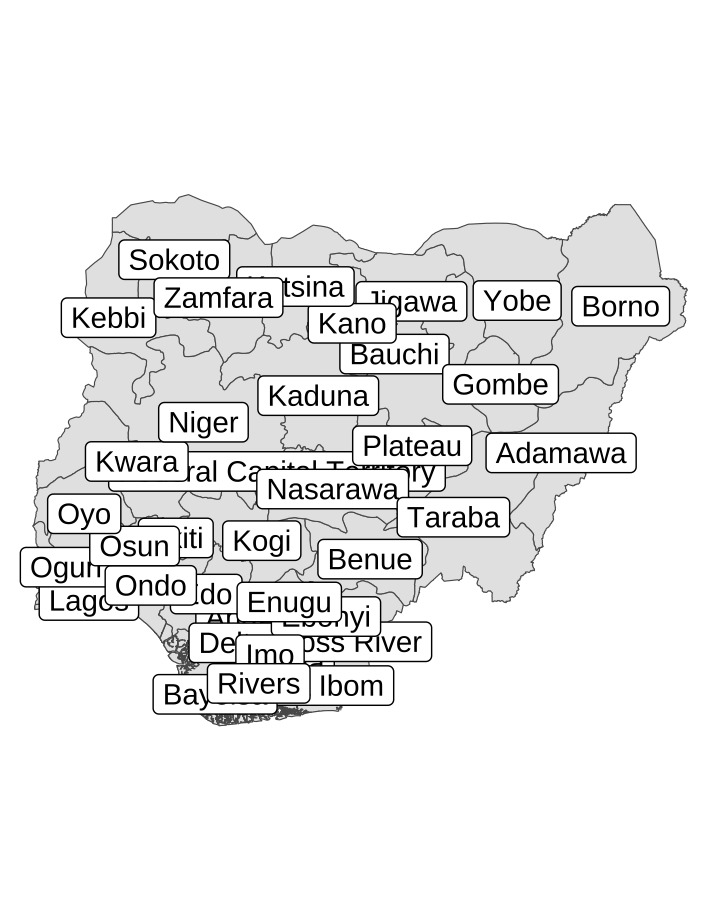
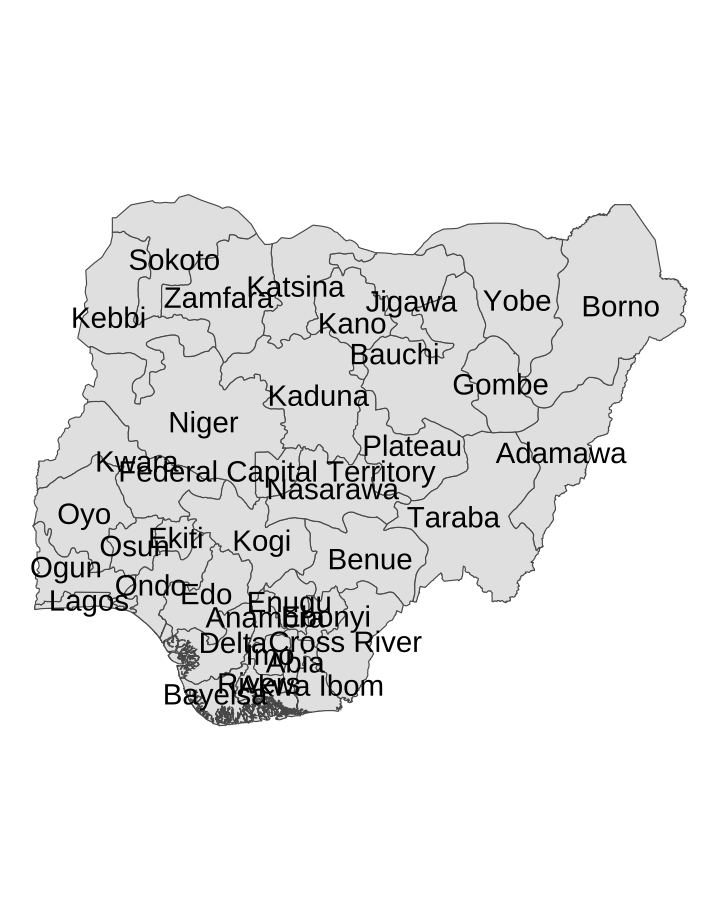
dashboard

Changed region(s): [[0.0306, 0.2432, 0.9472, 0.7904]]

diff --git a/docs/index.html b/docs/index.html
@@ -1875,10 +1875,11 @@ window.FlexDashboardComponents.push({
 
 <div id="dashboard-container">
 
-<div id="background" class="section level1" data-icon="fa-info-circle">
+<div id="background" class="section level1" data-orientation="rows"
+data-icon="fa-info-circle">
 <h1>Background</h1>
-<div id="sidebar" class="section level2 sidebar">
-<h2 class="sidebar">Sidebar</h2>
+<div id="about-data" class="section level2 sidebar">
+<h2 class="sidebar">About Data</h2>
 <p><strong>Background</strong></p>
 <p>The <code>afrobarometer_ngr</code> data is a publicly available data
 set from <a
@@ -1886,26 +1887,25 @@ href="https://www.afrobarometer.org/data/"><strong>Afrobarometer</strong></a>,
 an non-profit African survey organization based in Ghana. According to
 their website, they “conducts public attitude surveys on democracy,
 governance, the economy, and society.” The data set is part of their
-many data sets from African countries.</p>
-<p>Specifically, the <code>afrobarometer_ngr</code> data set is a 2022
-8th round comprehensive survey on several topics from perceptions of
-democracy, elections and the media to attitudes towards different
-institutions in Nigeria.</p>
+many data sets from African countries. Specifically, the
+<code>afrobarometer_ngr</code> data set is a 2022 8th round
+comprehensive survey on several topics from perceptions of democracy,
+elections and the media to attitudes towards different institutions in
+Nigeria.</p>
 </div>
-<div id="column" class="section level2" data-height="600">
-<h2>Column</h2>
+<div id="row-data-width400" class="section level2 tabset">
+<h2 class="tabset">Row {data-width=400}</h2>
 <div id="title" class="section level3 no-title">
 <h3 class="no-title">Title</h3>
-<div class="knitr-options" data-fig-width="288" data-fig-height="240">
+<div class="knitr-options" data-fig-width="624" data-fig-height="672">
 
 </div>
-<p><img src="final%20draft%20graphics/perception_image.jpg" width="288" data-figure-id=fig1 style="display: block; margin: auto 0 auto auto;" /></p>
+<p><img src="final%20draft%20graphics/perception_image.png" width="624" data-figure-id=fig1 style="display: block; margin: auto;" /></p>
 </div>
-</div>
-<div id="column-1" class="section level2" data-height="600">
-<h2>Column</h2>
-<div id="title-1" class="section level3 no-title">
-<h3 class="no-title">Title</h3>
+<div id="guides-to-reading-maps-37-states-of-nigeria"
+class="section level3 no-title">
+<h3 class="no-title"><strong>Guides to Reading Maps (37 States of
+Nigeria)</strong></h3>
 <strong>Guides to Maps (37 States of Nigeria)</strong>
 <div class="knitr-options" data-fig-width="576" data-fig-height="460">
 
@@ -1932,7 +1932,7 @@ evident, States in the North (Islamic Majority) are more trusting of the
 President and Religious Leaders compared to the states in the South
 (Christian Majority).</p>
 </div>
-<div id="column-2" class="section level2" data-width="400">
+<div id="column" class="section level2" data-width="400">
 <h2>Column</h2>
 <div id="nigerian-trust-religious-and-traditional-leaders-more"
 class="section level3">
@@ -1943,7 +1943,7 @@ class="section level3">
 <p><img src="index_files/figure-html/unnamed-chunk-4-1.png" width="576" data-figure-id=fig2 /></p>
 </div>
 </div>
-<div id="column-3" class="section level2" data-width="200">
+<div id="column-1" class="section level2" data-width="200">
 <h2>Column</h2>
 <div class="knitr-options" data-fig-width="576" data-fig-height="460">
 
@@ -1976,7 +1976,7 @@ in providing basic Health services and their handling of education. The
 lowest assessments were on electricity and job creation. Overall, on a
 scale of “1 to 5”, the ratings were quite low.</p>
 </div>
-<div id="column-4" class="section level2" data-width="400">
+<div id="column-2" class="section level2" data-width="400">
 <h2>Column</h2>
 <div
 id="average-ratings-of-how-well-the-federal-govt-is-handling-the-following"
@@ -1986,8 +1986,8 @@ Following</strong></h3>
 <div class="knitr-options" data-fig-width="576" data-fig-height="460">
 
 </div>
-<div class="plotly html-widget html-fill-item-overflow-hidden html-fill-item" id="htmlwidget-19e86ef79b84cf7f3ac5" style="width:576px;height:460.8px;"></div>
-<script type="application/json" data-for="htmlwidget-19e86ef79b84cf7f3ac5">{"x":{"visdat":{"15c04449145f":["function () ","plotlyVisDat"]},"cur_data":"15c04449145f","attrs":{"15c04449145f":{"x":{},"y":{},"marker":{"color":["#D53130","#00929C","#FFB6C2","#184C52","#3086E5","#846B54","#6D6F80","#E4CA15","#523316"]},"alpha_stroke":1,"sizes":[10,100],"spans":[1,20],"type":"bar"}},"layout":{"margin":{"b":40,"l":60,"t":25,"r":10},"xaxis":{"domain":[0,1],"automargin":true,"categoryorder":"total descending","title":"Issues","type":"category","categoryarray":["Addressing Armed Extremism","Basic Health Services","Crime Reduction","Economy","Education","Electricity","Fighting Corruption","Job Creation","Living Conditions"]},"yaxis":{"domain":[0,1],"automargin":true,"range":[1,5],"title":"Average_Score"},"hovermode":"closest","showlegend":false},"source":"A","config":{"modeBarButtonsToAdd":["hoverclosest","hovercompare"],"showSendToCloud":false},"data":[{"x":["Basic Health Services","Education","Addressing Armed Extremism","Crime Reduction","Economy","Fighting Corruption","Living Conditions","Electricity","Job Creation"],"y":[2.12,2.11,2.06,2.01,1.97,1.95,1.87,1.85,1.74],"marker":{"color":["#D53130","#00929C","#FFB6C2","#184C52","#3086E5","#846B54","#6D6F80","#E4CA15","#523316"],"line":{"color":"rgba(31,119,180,1)"}},"type":"bar","error_y":{"color":"rgba(31,119,180,1)"},"error_x":{"color":"rgba(31,119,180,1)"},"xaxis":"x","yaxis":"y","frame":null}],"highlight":{"on":"plotly_click","persistent":false,"dynamic":false,"selectize":false,"opacityDim":0.2,"selected":{"opacity":1},"debounce":0},"shinyEvents":["plotly_hover","plotly_click","plotly_selected","plotly_relayout","plotly_brushed","plotly_brushing","plotly_clickannotation","plotly_doubleclick","plotly_deselect","plotly_afterplot","plotly_sunburstclick"],"base_url":"https://plot.ly"},"evals":[],"jsHooks":[]}</script>
+<div class="plotly html-widget html-fill-item-overflow-hidden html-fill-item" id="htmlwidget-64ed61826e7a48a63538" style="width:576px;height:460.8px;"></div>
+<script type="application/json" data-for="htmlwidget-64ed61826e7a48a63538">{"x":{"visdat":{"2080495927a6":["function () ","plotlyVisDat"]},"cur_data":"2080495927a6","attrs":{"2080495927a6":{"x":{},"y":{},"marker":{"color":["#D53130","#00929C","#FFB6C2","#184C52","#3086E5","#846B54","#6D6F80","#E4CA15","#523316"]},"alpha_stroke":1,"sizes":[10,100],"spans":[1,20],"type":"bar"}},"layout":{"margin":{"b":40,"l":60,"t":25,"r":10},"xaxis":{"domain":[0,1],"automargin":true,"categoryorder":"total descending","title":"Issues","type":"category","categoryarray":["Addressing Armed Extremism","Basic Health Services","Crime Reduction","Economy","Education","Electricity","Fighting Corruption","Job Creation","Living Conditions"]},"yaxis":{"domain":[0,1],"automargin":true,"range":[1,5],"title":"Average_Score"},"hovermode":"closest","showlegend":false},"source":"A","config":{"modeBarButtonsToAdd":["hoverclosest","hovercompare"],"showSendToCloud":false},"data":[{"x":["Basic Health Services","Education","Addressing Armed Extremism","Crime Reduction","Economy","Fighting Corruption","Living Conditions","Electricity","Job Creation"],"y":[2.12,2.11,2.06,2.01,1.97,1.95,1.87,1.85,1.74],"marker":{"color":["#D53130","#00929C","#FFB6C2","#184C52","#3086E5","#846B54","#6D6F80","#E4CA15","#523316"],"line":{"color":"rgba(31,119,180,1)"}},"type":"bar","error_y":{"color":"rgba(31,119,180,1)"},"error_x":{"color":"rgba(31,119,180,1)"},"xaxis":"x","yaxis":"y","frame":null}],"highlight":{"on":"plotly_click","persistent":false,"dynamic":false,"selectize":false,"opacityDim":0.2,"selected":{"opacity":1},"debounce":0},"shinyEvents":["plotly_hover","plotly_click","plotly_selected","plotly_relayout","plotly_brushed","plotly_brushing","plotly_clickannotation","plotly_doubleclick","plotly_deselect","plotly_afterplot","plotly_sunburstclick"],"base_url":"https://plot.ly"},"evals":[],"jsHooks":[]}</script>
 </div>
 </div>
 </div>
@@ -2053,7 +2053,8 @@ output:
 
 ```{r setup, warning=FALSE, include=FALSE}
 library(pacman)
-p_load(tidyverse, esquisse, dlookr, rio, here, readr, tidytext, knitr, janitor, expss, hrbrthemes, flextable, labelled, sjlabelled, colorblindr, forcats, treemap, flexdashboard, treemap, plotly, ragg, extrafonts)
+p_load(tidyverse, esquisse, dlookr, rio, here, readr, tidytext, knitr, janitor, expss, hrbrthemes, flextable, labelled, sjlabelled, colorblindr, forcats, treemap, flexdashboard, treemap, plotly, ragg, extrafonts, ggiraph)
+
 
 
 
@@ -2070,6 +2071,44 @@ selected_afrob &lt;-  afrobarometer_ngr %&gt;%
 selected_afrob &lt;-  selected_afrob %&gt;% 
   mutate(states = REGION)
 ```
+
+
+
+# Background {data-orientation=rows data-icon="fa-info-circle"}
+
+
+ 
+ About Data {.sidebar}
+--------------------------------------------------
+**Background**
+
+The `afrobarometer_ngr` data is a publicly available data set from [**Afrobarometer**](https://www.afrobarometer.org/data/), an non-profit African survey organization based in Ghana. According to their website, they "conducts public attitude surveys on democracy, governance, the economy, and society." The data set is part of their many data sets from African countries. Specifically, the `afrobarometer_ngr` data set is a 2022 8th round comprehensive survey on several topics from perceptions of democracy, elections and the media to attitudes towards different institutions in Nigeria.
+
+Row {data-width=400}  {.tabset}
+-----------------------------------------------------------------------
+### Title {.no-title}
+
+```{r,  fig.width= 6.5, fig.height= 7, fig.align='center'}
+knitr::include_graphics(here( "final draft graphics", "perception_image.png"))
+```
+
+
+### **Guides to Reading Maps (37 States of Nigeria)** {.no-title}
+
+**Guides to Maps (37 States of Nigeria)**
+```{r, warning=FALSE}
+gg &lt;- ggplot(NGA1)+
+ geom_sf() +
+  theme_void() +
+   geom_sf_text_interactive(aes(label = NAME_1, tooltip = NAME_1))
+gg
+
+
+```
+
+
+
+# Trust in Institutions {data-icon="ion-android-checkmark-circle"}
 
 ```{r, trust, warning=FALSE, include=FALSE}
 ## Recode Variables Trust
@@ -2150,50 +2189,9 @@ temp2 &lt;- temp2 %&gt;%
         y = "Frequency",
         caption = "Data from Afrobarometer 2022 Round 8 Nigeria")
     
-
-  
  
 
 ```
-
-# Background {data-icon="fa-info-circle"}
-
-
-
-Sidebar {.sidebar}
--------------------------------
-**Background**
-
-The `afrobarometer_ngr` data is a publicly available data set from [**Afrobarometer**](https://www.afrobarometer.org/data/), an non-profit African survey organization based in Ghana. According to their website, they "conducts public attitude surveys on democracy, governance, the economy, and society." The data set is part of their many data sets from African countries.
-
-Specifically, the `afrobarometer_ngr` data set is a 2022 8th round comprehensive survey on several topics from perceptions of democracy, elections and the media to attitudes towards different institutions in Nigeria.
-
-
-
-Column {data-height=600}
------------------------------------------------------------------------
-### Title {.no-title}
-
-```{r,  fig.width= 3, fig.height= 2.5, fig.align='right'}
-knitr::include_graphics(here( "final draft graphics", "perception_image.jpg"))
-```
-
-Column {data-height=600}
------------------------------------------------------------------------
-### Title {.no-title}
-
-**Guides to Maps (37 States of Nigeria)**
-```{r}
-ggplot(NGA1)+
- geom_sf()+
-  geom_sf_label(aes(label = NAME_1)) +
-  theme_void()
-```
-
-
-
-# Trust in Institutions {data-icon="ion-android-checkmark-circle"}
-
 
 ## Trust {.sidebar}
 
@@ -2264,7 +2262,6 @@ Trust_President_plot &lt;- Trust_President %&gt;%
   mutate(prop_score = n/sum(n, na.rm = T)) %&gt;% 
 ggplot() +
   geom_sf(aes(fill = prop_score))+
-  geom_sf_label(aes(label = NAME_1)) +
   scale_fill_gradient(name= "% of Trust Scores",
     low = "#e0f3db",
   high = "#43a2ca",
@@ -2281,8 +2278,6 @@ ggplot() +
         y = "",
         caption = "Data from Afrobarometer 2022 Round 8 Nigeria")
  
- 
-  
 
 
   
@@ -2290,7 +2285,6 @@ Trust_Religious_Leaders_plot &lt;-  Trust_Religious_Leaders %&gt;%
   mutate(prop_score = n/sum(n, na.rm = T)) %&gt;% 
 ggplot() +
   geom_sf(aes(fill = prop_score))+
-  geom_sf_label(aes(label = NAME_1)) +
  scale_fill_gradient(name= "% of Trust Scores",
                      low = "#fff7bc",
                      high = "#d95f0e",
@@ -2300,7 +2294,12 @@ ggplot() +
                      aesthetics = "fill",
    breaks = c(0.03, 0.06,0.09),
   labels = c("Low Trust","Mid Trust",  "High Trust")) +
-  theme_void()
+  theme_void() +
+   labs(title = "Trust in the Religious Leaders",
+        subtitle = "Share of Nigerians who say they they trust A lot",
+        x = "",
+        y = "",
+        caption = "Data from Afrobarometer 2022 Round 8 Nigeria")
 
 ```
 
